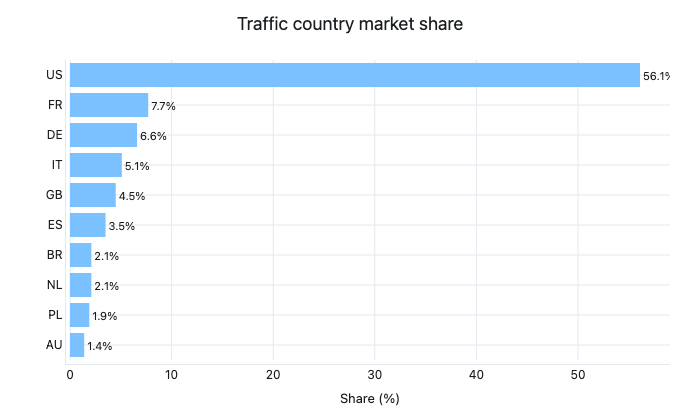
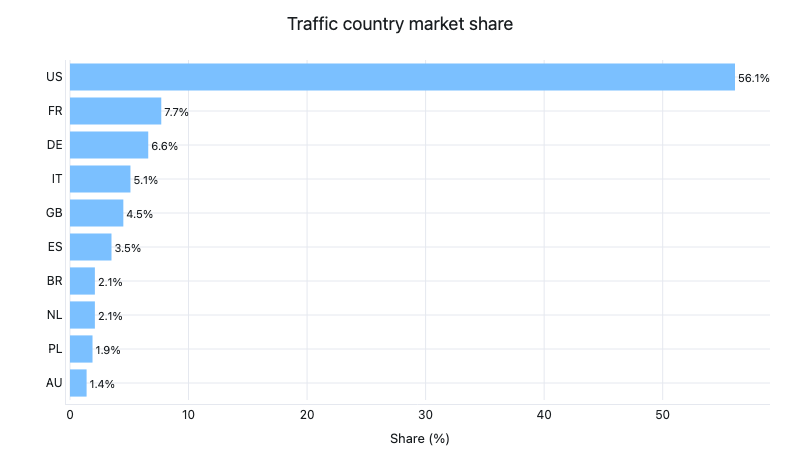
fix: widen TLD and country market share charts to 800px

diff --git a/src/backlink_pricing_model/visualization/distributions_plots.py b/src/backlink_pricing_model/visualization/distributions_plots.py
@@ -206,7 +206,8 @@ def plot_tld_distribution(
         xaxis_title="Share (%)",
         yaxis_title=None,
         yaxis={"categoryorder": "total ascending"},
-        height=max(350, top_n * 32 + 100),
+        height=max(400, top_n * 36 + 100),
+        width=800,
     )
     _apply_base_layout(fig, config)
     _maybe_save(fig, config)
@@ -272,7 +273,8 @@ def plot_country_distribution(
         xaxis_title="Share (%)",
         yaxis_title=None,
         yaxis={"categoryorder": "total ascending"},
-        height=max(350, top_n * 32 + 100),
+        height=max(400, top_n * 36 + 100),
+        width=800,
     )
     _apply_base_layout(fig, config)
     _maybe_save(fig, config)
